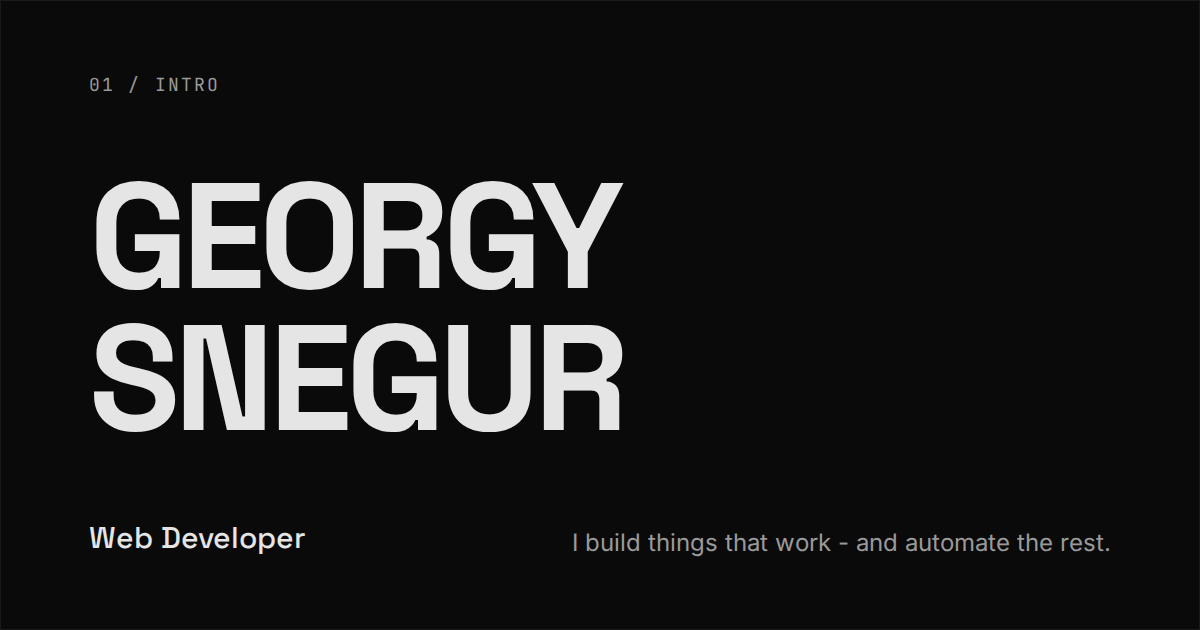
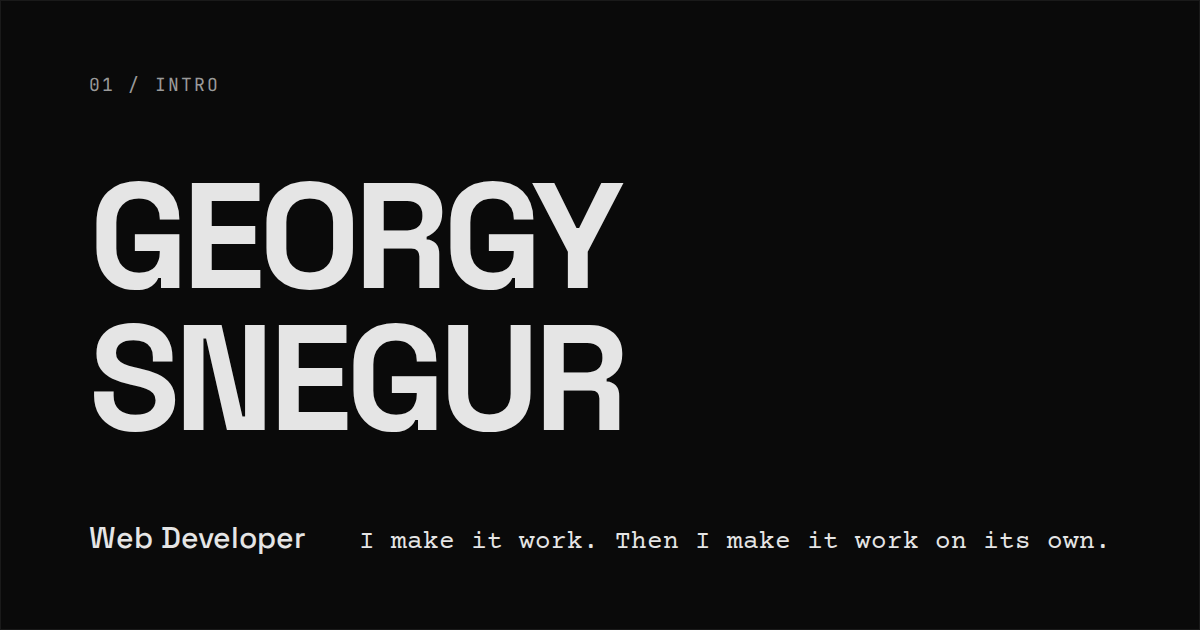
New hero slogan in Courier Prime with quote marks (#8)
- EN/DE slogan, meta description, og-image updated
- Courier Prime self-hosted via fontsource
- Large faded quote marks, language-correct (EN “ ”, DE „ “)
- Test that blocks Google Fonts and other third-party assets

Changed region(s): [[0.2775, 0.8444, 0.925, 0.8746]]

diff --git a/src/i18n.ts b/src/i18n.ts
@@ -13,7 +13,7 @@ export const strings: Record<Lang, Dict> = {
   en: {
     'meta.title': 'Georgy Snegur - Web Developer',
     'meta.description':
-      'Georgy Snegur, web developer and student at FH Salzburg. I build websites that work and automate the rest.',
+      'Georgy Snegur, web developer and student at FH Salzburg. I make it work. Then I make it work on its own.',
     'nav.skip': 'Skip to content',
     'nav.home': 'GS - Georgy Snegur, back to top',
     'nav.menu': 'Menu',
@@ -24,7 +24,7 @@ export const strings: Record<Lang, Dict> = {
     'nav.langGroup': 'Language',
     'hero.label': '01 / INTRO',
     'hero.role': 'Web Developer',
-    'hero.tagline': 'I build things that work - and automate the rest.',
+    'hero.tagline': 'I make it work. Then I make it work on its own.',
     'about.label': 'About',
     'about.text':
       'Student at FH Salzburg, studying Code and Interactive Systems. Background in 3D and animation - now focused on web development, automation, and DevOps. Looking for a mandatory internship (Pflichtpraktikum) starting July 2027.',
@@ -50,7 +50,7 @@ export const strings: Record<Lang, Dict> = {
   de: {
     'meta.title': 'Georgy Snegur - Webentwickler',
     'meta.description':
-      'Georgy Snegur, Webentwickler und Student an der FH Salzburg. Ich baue Websites, die funktionieren, und automatisiere den Rest.',
+      "Georgy Snegur, Webentwickler und Student an der FH Salzburg. Ich bring's zum Laufen. Dann bring ich's dazu, von allein zu laufen.",
     'nav.skip': 'Zum Inhalt springen',
     'nav.home': 'GS - Georgy Snegur, nach oben',
     'nav.menu': 'Menü',
@@ -62,7 +62,7 @@ export const strings: Record<Lang, Dict> = {
     'hero.label': '01 / INTRO',
     'hero.role': 'Webentwickler',
     'hero.tagline':
-      'Ich baue Dinge, die funktionieren - und automatisiere den Rest.',
+      "Ich bring's zum Laufen. Dann bring ich's dazu, von allein zu laufen.",
     'about.label': 'Über mich',
     'about.text':
       'Student an der FH Salzburg im Studiengang Code and Interactive Systems. Hintergrund in 3D und Animation - jetzt mit Fokus auf Webentwicklung, Automatisierung und DevOps. Ich suche ein Pflichtpraktikum ab Juli 2027.',

diff --git a/src/style.css b/src/style.css
@@ -20,6 +20,7 @@
   --font-display: 'Space Grotesk Variable', system-ui, sans-serif;
   --font-body: 'Inter Variable', system-ui, sans-serif;
   --font-mono: 'JetBrains Mono Variable', ui-monospace, monospace;
+  --font-quote: 'Courier Prime', 'Courier New', Courier, monospace;
 
   --container: 72rem;
   --gutter: 1.25rem;
@@ -344,9 +345,51 @@ main:focus {
 }
 
 .hero-tagline {
-  margin-top: 0.5rem;
-  max-width: 38ch;
-  color: var(--muted);
+  position: relative;
+  margin-top: 1rem;
+  max-width: 30ch;
+  padding-block: 3rem;
+  font-family: var(--font-quote);
+  font-size: 1.1875rem;
+  line-height: 1.45;
+  color: var(--text);
+}
+
+/* Big, faded quote marks. Decorative only: the "/ ''" part hides them
+   from screen readers. English uses “ ”, German „ “.
+   The glyphs sit at different heights in their box, so each one is
+   placed so it lands inside the 3rem padding above or below the text. */
+.hero-tagline::before,
+.hero-tagline::after {
+  position: absolute;
+  font-family: var(--font-display);
+  font-size: 7rem;
+  font-weight: 700;
+  line-height: 1;
+  color: var(--text);
+  opacity: 0.25;
+  pointer-events: none;
+}
+
+.hero-tagline::before {
+  content: '\201C' / '';
+  top: -0.25rem;
+  left: -0.25rem;
+}
+
+.hero-tagline::after {
+  content: '\201D' / '';
+  top: calc(100% - 2.75rem);
+  right: -0.25rem;
+}
+
+:lang(de) .hero-tagline::before {
+  content: '\201E' / '';
+  top: -4.25rem;
+}
+
+:lang(de) .hero-tagline::after {
+  content: '\201C' / '';
 }
 
 @media (min-width: 768px) {

diff --git a/index.html b/index.html
@@ -6,7 +6,7 @@
     <title>Georgy Snegur - Web Developer</title>
     <meta
       name="description"
-      content="Georgy Snegur, web developer and student at FH Salzburg. I build websites that work and automate the rest."
+      content="Georgy Snegur, web developer and student at FH Salzburg. I make it work. Then I make it work on its own."
       data-i18n-attr="content:meta.description"
     />
     <meta name="color-scheme" content="dark light" />
@@ -27,7 +27,7 @@
     <meta property="og:title" content="Georgy Snegur - Web Developer" />
     <meta
       property="og:description"
-      content="Web developer and student at FH Salzburg. I build things that work - and automate the rest."
+      content="Web developer and student at FH Salzburg. I make it work. Then I make it work on its own."
     />
     <meta property="og:image" content="https://georgysnegur.com/og-image.png" />
     <meta property="og:image:width" content="1200" />
@@ -97,7 +97,7 @@
           <div class="hero-text">
             <p class="hero-role" data-i18n="hero.role">Web Developer</p>
             <p class="hero-tagline" data-i18n="hero.tagline">
-              I build things that work - and automate the rest.
+              I make it work. Then I make it work on its own.
             </p>
           </div>
         </div>

diff --git a/src/i18n.test.ts b/src/i18n.test.ts
@@ -75,3 +75,24 @@ describe('CV files', () => {
     }
   });
 });
+
+describe('privacy: nothing loaded from third parties', () => {
+  const css = readFileSync(resolve(import.meta.dirname, 'style.css'), 'utf8');
+
+  it('no Google Fonts or other font CDNs', () => {
+    for (const text of [html, css]) {
+      expect(text).not.toMatch(
+        /fonts\.(googleapis|gstatic)\.com|use\.typekit|fonts\.bunny/,
+      );
+    }
+  });
+
+  it('no external scripts, stylesheets or CSS urls', () => {
+    expect(html).not.toMatch(/<script[^>]+src="(https?:)?\/\//);
+    expect(html).not.toMatch(
+      /<link[^>]+rel="stylesheet"[^>]+href="(https?:)?\/\//,
+    );
+    expect(css).not.toMatch(/url\(\s*['"]?(https?:)?\/\//);
+    expect(css).not.toMatch(/@import/);
+  });
+});

diff --git a/src/main.ts b/src/main.ts
@@ -1,6 +1,7 @@
 import '@fontsource-variable/inter';
 import '@fontsource-variable/space-grotesk';
 import '@fontsource-variable/jetbrains-mono';
+import '@fontsource/courier-prime/400.css';
 import './style.css';
 import {
   applyLang,
